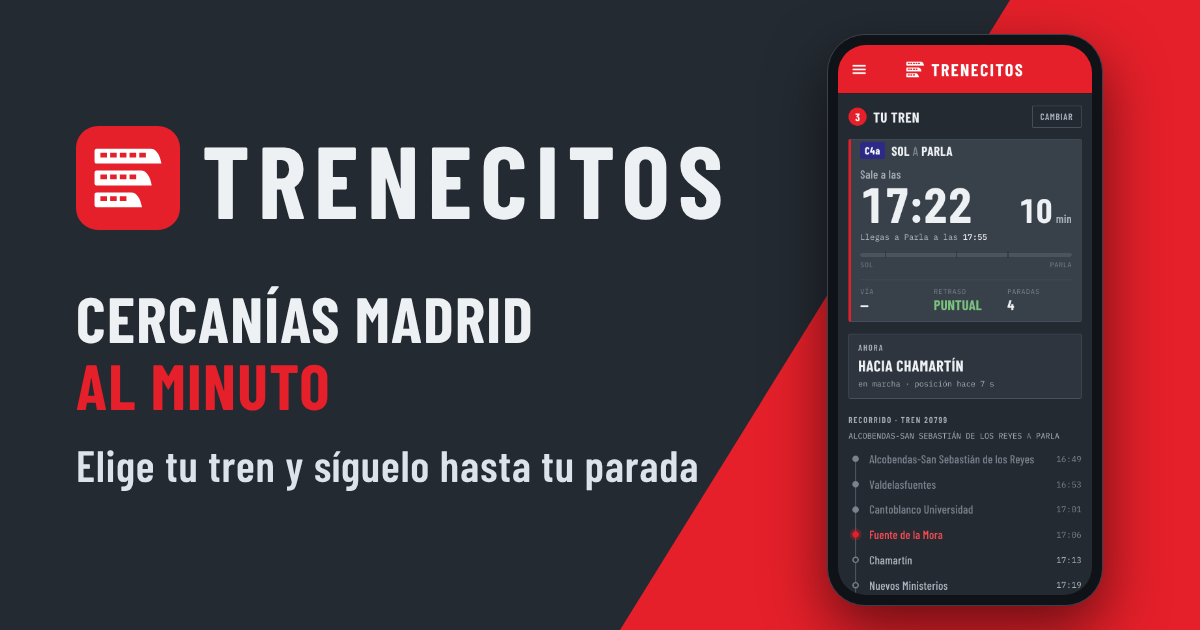
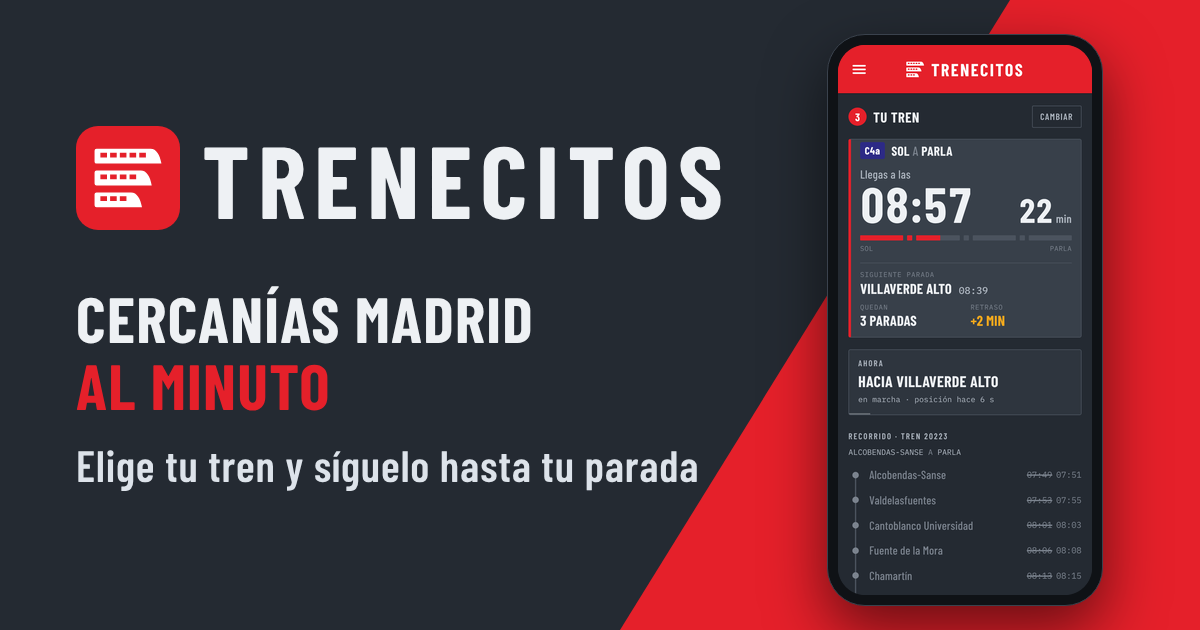
Capturas: paso 3 y vista previa con la barra de tramos
- paso-3.png en marcha (Sol–Parla, una parada pasada); texto alternativo del README a juego
- og.png con la misma pantalla en el móvil; og:image ?v=7 para que se vuelva a descargar

Claude-Session: https://claude.ai/code/session_01XLSZwhcpX4cWhsFef5cfD3

Changed region(s): [[0.7092, 0.4222, 0.8942, 0.9349], [0.7092, 0.2714, 0.8942, 0.3921]]

diff --git a/index.html b/index.html
@@ -12,7 +12,7 @@
 <meta property="og:title" content="Trenecitos · ¿Llegas al tren?">
 <meta property="og:description" content="Cercanías Madrid en tiempo real: elige tu tren para saber cuándo llega">
 <meta property="og:url" content="https://trenecitos.pages.dev/">
-<meta property="og:image" content="https://trenecitos.pages.dev/img/og.png?v=6">
+<meta property="og:image" content="https://trenecitos.pages.dev/img/og.png?v=7">
 <meta property="og:image:type" content="image/png">
 <meta property="og:image:width" content="1200">
 <meta property="og:image:height" content="630">
@@ -20,7 +20,7 @@
 <meta name="twitter:card" content="summary_large_image">
 <meta name="twitter:title" content="Trenecitos · ¿Llegas al tren?">
 <meta name="twitter:description" content="Cercanías Madrid en tiempo real: elige tu tren para saber cuándo llega">
-<meta name="twitter:image" content="https://trenecitos.pages.dev/img/og.png?v=6">
+<meta name="twitter:image" content="https://trenecitos.pages.dev/img/og.png?v=7">
 <link rel="manifest" href="manifest.webmanifest">
 <link rel="canonical" href="https://trenecitos.pages.dev/">
 <link rel="icon" href="favicon.ico" sizes="any">

diff --git a/README.md b/README.md
@@ -7,7 +7,7 @@
 <p>
   <img src="img/paso-1.png" width="250" alt="Paso 1: tus viajes, cada uno con sus dos sentidos">
   <img src="img/paso-2.png" width="250" alt="Paso 2: los próximos trenes con su retraso y cuenta atrás">
-  <img src="img/paso-3.png" width="250" alt="Paso 3: tu tren, con la hora de salida, la vía y el recorrido">
+  <img src="img/paso-3.png" width="250" alt="Paso 3: tu tren, con la hora de llegada, las paradas que quedan y el recorrido">
 </p>
 
 ## Cómo funciona
